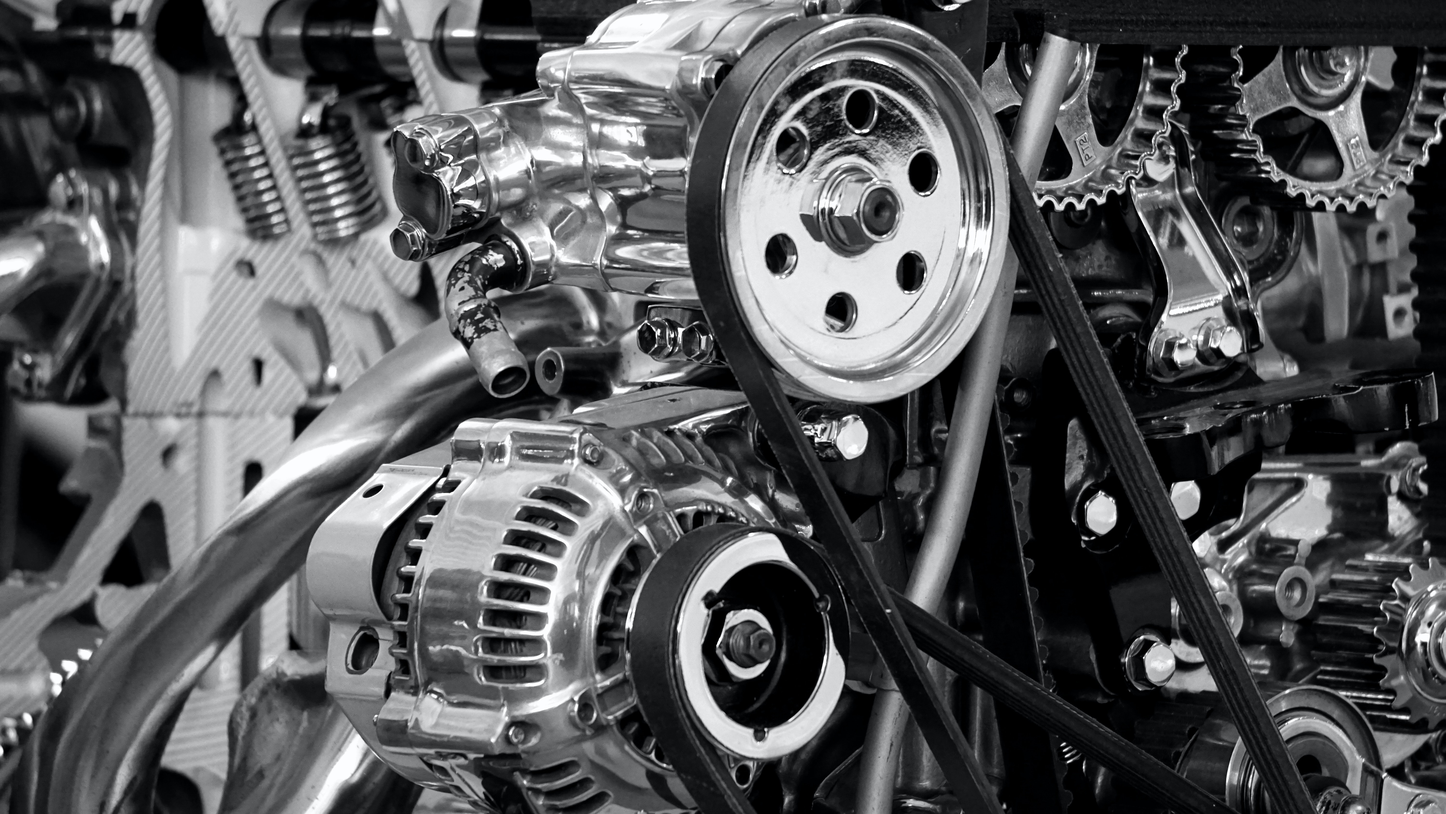
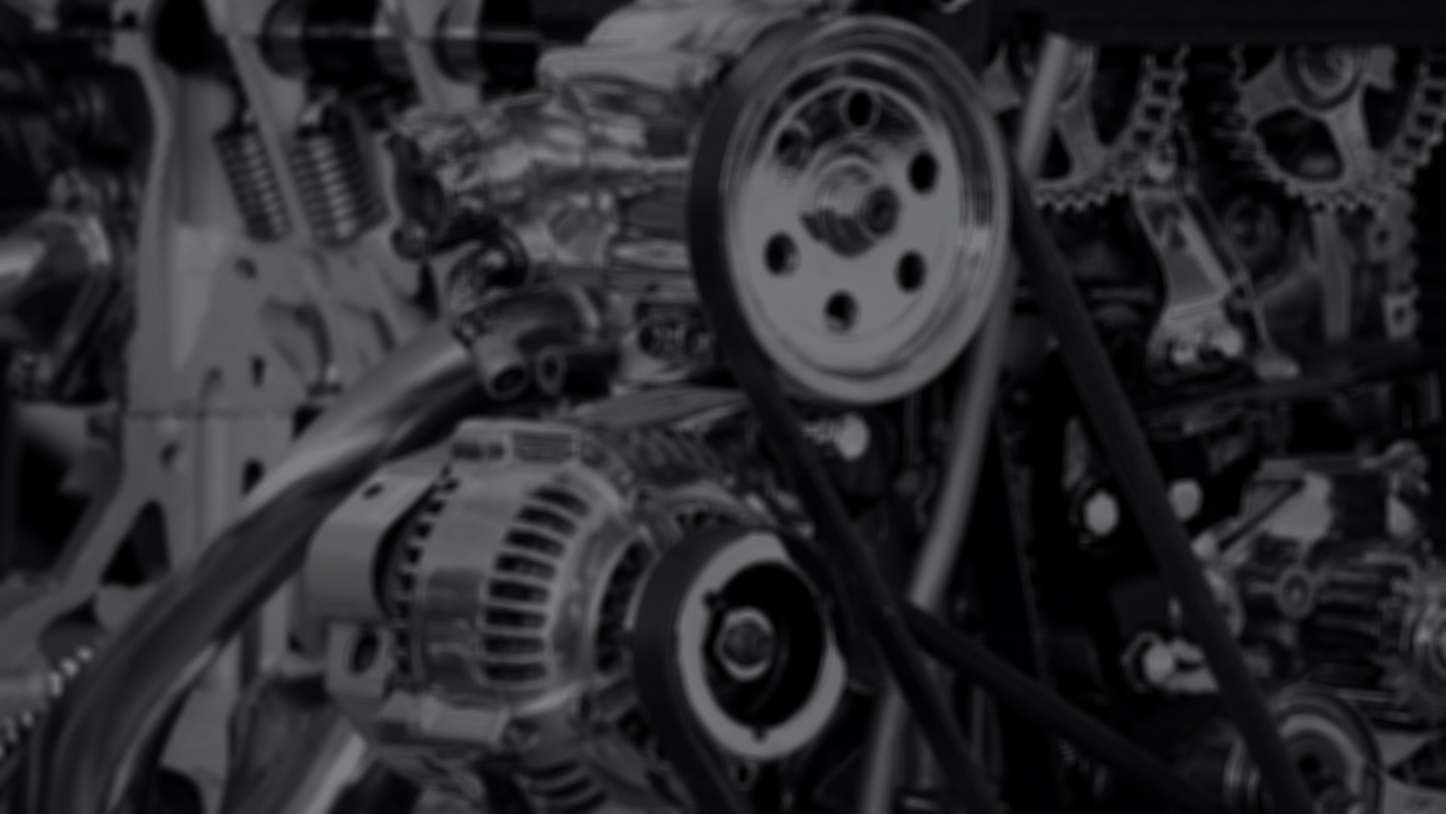
Carousel style

diff --git a/css/styles.css b/css/styles.css
@@ -11032,6 +11032,9 @@ header.masthead h1, header.masthead .h1 {
       width: 200px; /* Establece un ancho fijo para las imágenes */
       height: 200px; /* Establece una altura fija para las imágenes */
       object-fit: contain; /* Ajusta el contenido de la imagen para que quepa dentro del contenedor */
+      background-color: white;
+      border-radius: 40px;
+      padding: 30px;
   }
   
   /* Ajustar el diseño del slider */
@@ -11043,3 +11046,13 @@ header.masthead h1, header.masthead .h1 {
       padding: 10px; /* Ajusta el padding del contenedor del slider */
   }
 
+
+
+  #Carousel{
+    background-image: url("../assets/img/2.jpg")!important;
+    background-attachment: fixed;
+    background-position: center;
+    background-repeat: no-repeat;
+    background-size: cover;
+    height:400px;
+  }

diff --git a/index.html b/index.html
@@ -208,11 +208,11 @@
 
         <!-- ======= Clients Section ======= -->
         <!-- Contenedor del slider -->
-        <section class="page-section">
+        <section class="page-section" id="Carousel">
             <div class="container">
                 <div class="row justify-content-center">
-                    <div class="col-lg-9 text-center">
-                        <h2>Principales marcas de respuestos:</h2>
+                    <div  class="col-lg-9 text-center">
+                        <h2 class="text-white-75">Principales marcas de respuestos:</h2>
                     </div>
                 </div>
                 <div class="logo-slider">
